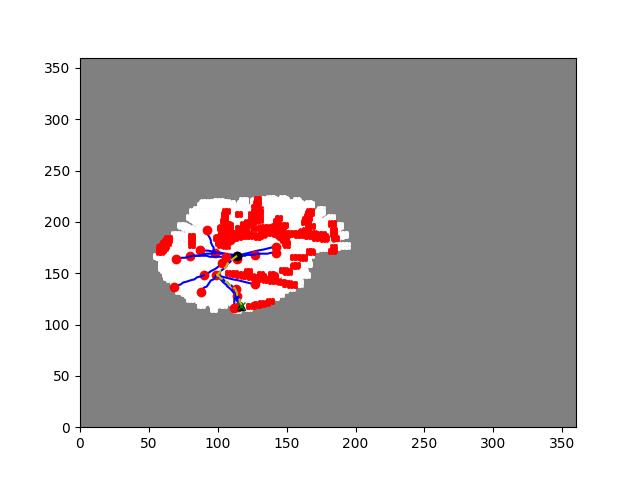
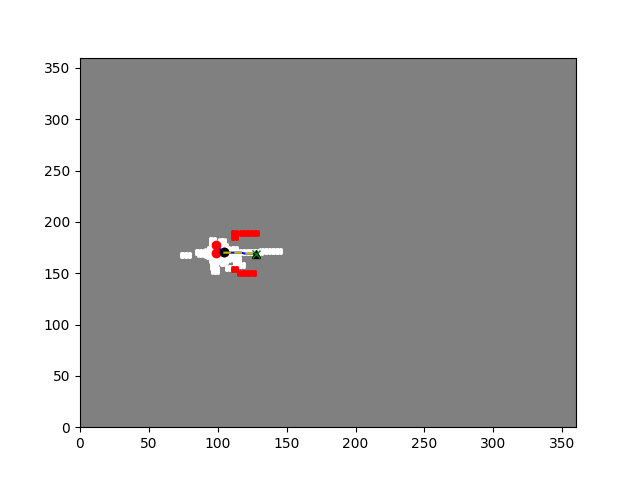
fixed main controller, has all components

Changed region(s): [[0.2188, 0.4062, 0.5625, 0.6562]]

diff --git a/final_project-2/controllers/grocery_shopper/grocery_shopper.py b/final_project-2/controllers/grocery_shopper/grocery_shopper.py
@@ -3,9 +3,17 @@
 # Apr 1, 2025
 from controller import Robot, Motor, Camera, RangeFinder, Lidar, Keyboard # type: ignore 
 import math
-from ultralytics import YOLO  
+import cv2
+from ultralytics import YOLO
 import numpy as np
-import time
+from matplotlib import pyplot as plt
+from scipy.signal import convolve2d # Uncomment if you want to use something else for finding the configuration space
+import matplotlib.transforms as transforms
+import heapq
+from ikpy.chain import Chain
+from ikpy.link import OriginLink, URDFLink
+import ikpy.utils.plot as plot_utils
+import gripper as grip
 
 # our files
 import map_with_lidar as lid
@@ -13,8 +21,8 @@ import rrt as rrt
 import ik as ik
 import cv as cv
 
-model = YOLO('best.pt') 
-CONF =.25
+model = YOLO('best.pt')
+CONF = .25
 
 #Initialization
 print("=== Initializing Grocery Shopper...")
@@ -22,7 +30,6 @@ print("=== Initializing Grocery Shopper...")
 MAX_SPEED = 7.0  # [rad/s]
 MAX_SPEED_MS = 0.633 # [m/s]
 AXLE_LENGTH = 0.4044 # m
-
 MOTOR_LEFT = 10
 MOTOR_RIGHT = 11
 N_PARTS = 12
@@ -46,7 +53,7 @@ part_names = ("head_2_joint", "head_1_joint", "torso_lift_joint", "arm_1_joint",
 
 # All motors except the wheels are controlled by position control. The wheels
 # are controlled by a velocity controller. We therefore set their position to infinite.
-target_pos = (0.0, 0.0, 0, 1.5, 1.02, -3, 1.27, 1.32, 0.0, 1.41, 'inf', 'inf',0.045,0.045)
+target_pos = (0.0, 0.0, 0.35, 0.07, 1.02, -3.16, 1.27, 1.32, 0.0, 1.41, 'inf', 'inf',0.045,0.045)
 
 robot_parts={}
 for i, part_name in enumerate(part_names):
@@ -92,27 +99,23 @@ display = robot.getDevice("display")
 keyboard = robot.getKeyboard()
 keyboard.enable(timestep)
 
+# Movement/ RRT*
 curr_waypoint = 0
-elapsed_time = 0
-prev_time = 0
-forward_state = 0
-rrt_state = 'goal'
 map_waypoints = []
 world_waypoints = []
-forward_state = 0
 node_list = []
 last_waypoints_angle = 0
 ahead_goal_attempts = 0
-avoiding_object = False
-avoiding_object_angle = 0
-
-avoiding_time = 10 # 10s for the robot to spin 360 degrees to capture more lidar data
-moving_to_goal = False
 valid_goal = True
 
-waiting = True
-delay_steps = 90
-wait_counter = 0
+# Avoiding Obstacles
+avoiding_object = False
+avoiding_object_angle = 0
+elapsed_time = 0
+avoiding_time = 10 # 10s for the robot to spin 360 degrees to capture more lidar data
+
+startup_time = 0
+startup_limit = 2
 
 # Odometry
 pose_x     = 0
@@ -122,6 +125,7 @@ pose_theta = 0
 vL = 0
 vR = 0
 
+# Lidar
 lidar_sensor_readings = [] # List to hold sensor readings
 lidar_offsets = np.linspace(-LIDAR_ANGLE_RANGE/2., +LIDAR_ANGLE_RANGE/2., LIDAR_ANGLE_BINS)
 lidar_offsets = lidar_offsets[83:len(lidar_offsets)-83] # Only keep lidar readings not blocked by robot chassis
@@ -143,6 +147,7 @@ lidar_map = np.zeros(shape=[360,360])
 filtered_lidar_map = np.zeros(shape=[360,360])
 lidar_map_generated = False
 
+# for resetting variables before running RRT*
 def reset_variables():
     global map_waypoints, world_waypoints, node_list, last_waypoints_angle, valid_goal, ahead_goal_attempts, goal_point
     map_waypoints = []
@@ -155,7 +160,6 @@ def reset_variables():
 
 # Main Loop
 while robot.step(timestep) != -1:
-    
     ##########################################################################################
     # POSITIONING - ODOMETRY
     ##########################################################################################
@@ -167,28 +171,29 @@ while robot.step(timestep) != -1:
     pose_theta = rad
     world_theta = pose_theta + math.pi/2
 
-    elapsed_time += timestep / 1000.0
-    delta_time = timestep / 1000.0
-    
-    
-    
     ##########################################################################################
     # LIDAR/MAPS
     ##########################################################################################
+
     lidar_sensor_readings = lidar.getRangeImage()
     lidar_sensor_readings = lidar_sensor_readings[83:len(lidar_sensor_readings)-83]
     lidar_front_readings = lidar_sensor_readings[lidar_center - lidar_width : lidar_center + lidar_width + 1]
     current_map_location = lid.globalcoords_to_map_coords(pose_x, pose_y)
-    
-    # update the lidar map on every robot step by adding to explored space and obstacle space
+
+    # make/update the lidar map on every robot step
     lidar_map_generated = lid.make_lidar_map(pose_x, pose_y, pose_theta, lidar_map, lidar_sensor_readings, display)
-    
+
+    # allowing some time after startup for lidar to load, leads to smoother startup
+    startup_time += timestep / 1000.0
+    if startup_time < startup_limit:
+        vL, vR = (0, 0)
+        continue
     
     ##########################################################################################
     # teleoperation - moving the arm
     ##########################################################################################
     key = keyboard.getKey()
-    if key == ord('S'):  # Move backward
+    if key == ord('S'):  # Move backwardf
         grippee.tele_increment([-1, 0, 0])
     elif key == ord('W'):  # Move forward
         grippee.tele_increment([1, 0, 0])
@@ -211,30 +216,34 @@ while robot.step(timestep) != -1:
     elif key == ord('R'):  # Reset motors
         grippee.reset_motors()
 
-
     ##########################################################################################
     # RRT
     ##########################################################################################
-    
 
+    # if the current waypoint is at the end of the waypoints list or the waypoints list is not populated, then filter the lidar map and run RRT*
     if (curr_waypoint == len(world_waypoints)-1 or len(map_waypoints) == 0) and lidar_map_generated:
         reset_variables()
         print("filtering...")
-        filtered_lidar_map = lid.filter_lidar_map(lidar_map) # change the raw values to 0, 1, 2 with 1 being explored 2 being obstacles
-        filtered_lidar_map = lid.expand_pixels(filtered_lidar_map, box_size=5) # expands the area around each pixel with 2s taking priority
-        lid.display_map(display, filtered_lidar_map) # add the map to the display drawing red as obstacles and blue as explored
+
+        # filter the lidar map to feed into RRT*
+        filtered_lidar_map = lid.filter_lidar_map(lidar_map)
+        filtered_lidar_map = lid.expand_pixels(filtered_lidar_map, box_size=5)
+        lid.display_map(display, filtered_lidar_map)
 
         current_map_position = lid.globalcoords_to_map_coords(pose_x, pose_y)
-
-        # update based on new lidar map
+       
+        # update map based on new lidar map
         frontiers, unknown, explored, obstacles = rrt.map_update(filtered_lidar_map)
         bounds = np.array([[0,360],[0,360]])
 
+        # while there RRT* has not created a successful path to goal
         while len(map_waypoints) == 0 and len(frontiers) != 0:
             print('entered into the rrt while loop')
             print('length of frontiers: ', len(frontiers))
             print(frontiers)
 
+            # attempt to generate a random frontier in front of the robot
+            # after 5 failed attempts, of trying to get a frontier in front, then get any random frontier as next goal point
             if valid_goal == True and ahead_goal_attempts < 5:
                 result = rrt.get_random_frontier_vertex_ahead(current_map_position[0], current_map_position[1], last_waypoints_angle)
                 if result is not None:
@@ -247,18 +256,16 @@ while robot.step(timestep) != -1:
                 goal_point = rrt.get_random_frontier_vertex()
                 print('ANOTHER TRIED GOAL POINT: ', goal_point)
 
+            # run RRT* and visualize
             node_list, map_waypoints = rrt.rrt_star(filtered_lidar_map, bounds, rrt.obstacles, rrt.point_is_valid, current_map_position, goal_point, 250, 30)
             if len(node_list) > 0:
                 rrt.visualize_2D_graph(bounds, rrt.obstacles, node_list, goal_point, 'robot_rrt_star_run.png')
-            
-            print('here are the map waypoints: ', map_waypoints)
 
+        # after the map waypoints have been generated, convert into world waypoints to feed to robot
         if map_waypoints is not None and len(map_waypoints) > 0:
             world_waypoints = [lid.map_coords_to_global_coords(pt[0], pt[1]) for pt in map_waypoints]
         else:
             print("map_waypoints is None!")
-            # world_waypoints = []
-
 
         curr_waypoint = 0
         elapsed_time = 0
@@ -267,26 +274,33 @@ while robot.step(timestep) != -1:
     print('avoiding object val: ', avoiding_object)
     
     valid_goal = True
-    # if (curr_waypoint <= len(world_waypoints)-1):
-    #     last_waypoints_angle = pose_theta
 
+    ##########################################################################################
+    # OBSTACLE AVOIDANCE 
+    ##########################################################################################
     if (len(lidar_front_readings) > 0):
         print('lowest front lidar reading: ', np.min(np.array(lidar_front_readings)))
+
+    # if any of the front lidar readings are below the threshold, then avoid the object by resetting variables and re-running RRT*
     if np.any(np.array(lidar_front_readings) < lidar_threshold) and avoiding_object == False:
         reset_variables()
         avoiding_object = True
         avoiding_object_angle = world_theta
         print('AVOIDING OBJECT!')
 
+    # update avoid object condition
     if avoiding_object == True:
             elapsed_time += timestep / 1000.0
             print(elapsed_time)
             if elapsed_time >= avoiding_time or ((world_theta - avoiding_object_angle + math.pi) % (2 * math.pi) - math.pi) > np.radians(30) or curr_waypoint > 0:
                 avoiding_object = False
 
+    # find the last waypoint direction to determine the direction that the next RRT* goal should be in
     if len(map_waypoints) > 1:
         last_waypoints_angle = rrt.get_last_waypoint_direction(map_waypoints[-1], map_waypoints[0])
     prev_wp = curr_waypoint
+
+    # navigate to the current waypoint
     vels, curr_waypoint = ik.nav_to_waypoint(world_waypoints, curr_waypoint, pose_x, pose_y, world_theta)
     
     print("current waypoint", curr_waypoint)
@@ -301,8 +315,6 @@ while robot.step(timestep) != -1:
         robot.step(3 * timestep) 
 
     vL, vR = vels
-    
-    cv.run_cv(camera,depth_cam)
     
     ##########################################################################################
     # MOVING
